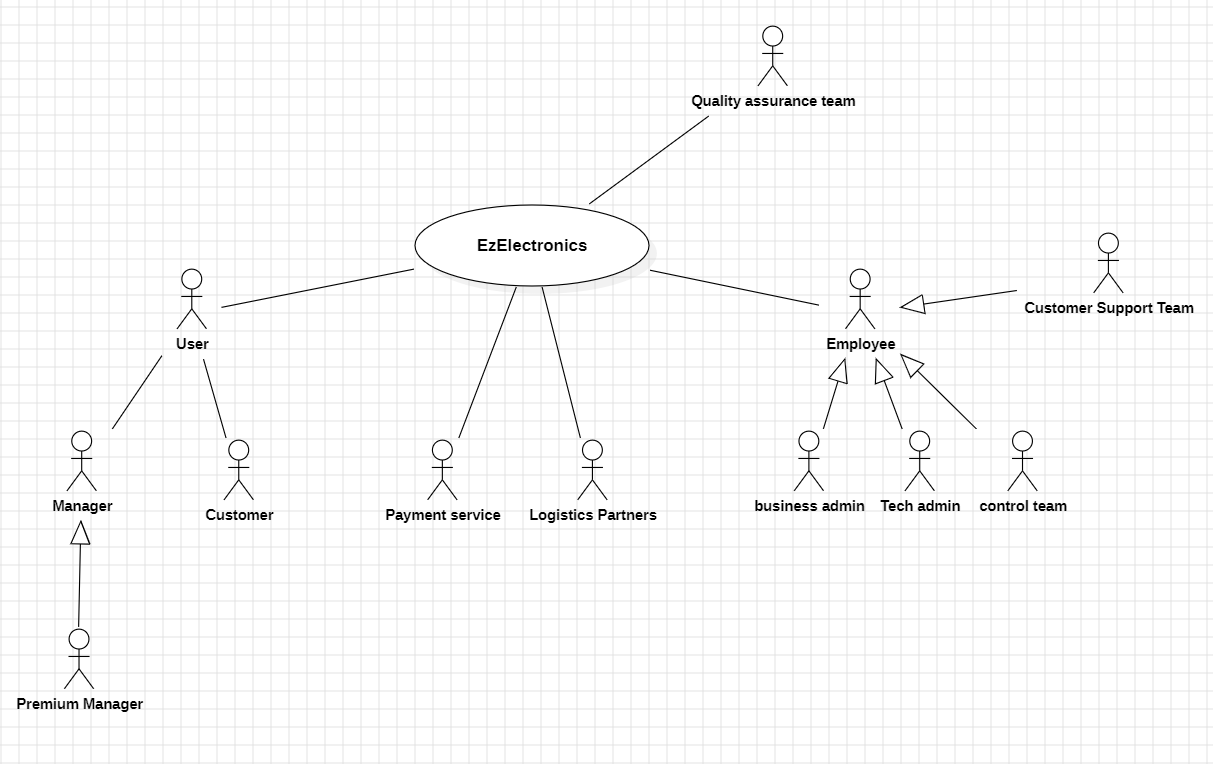
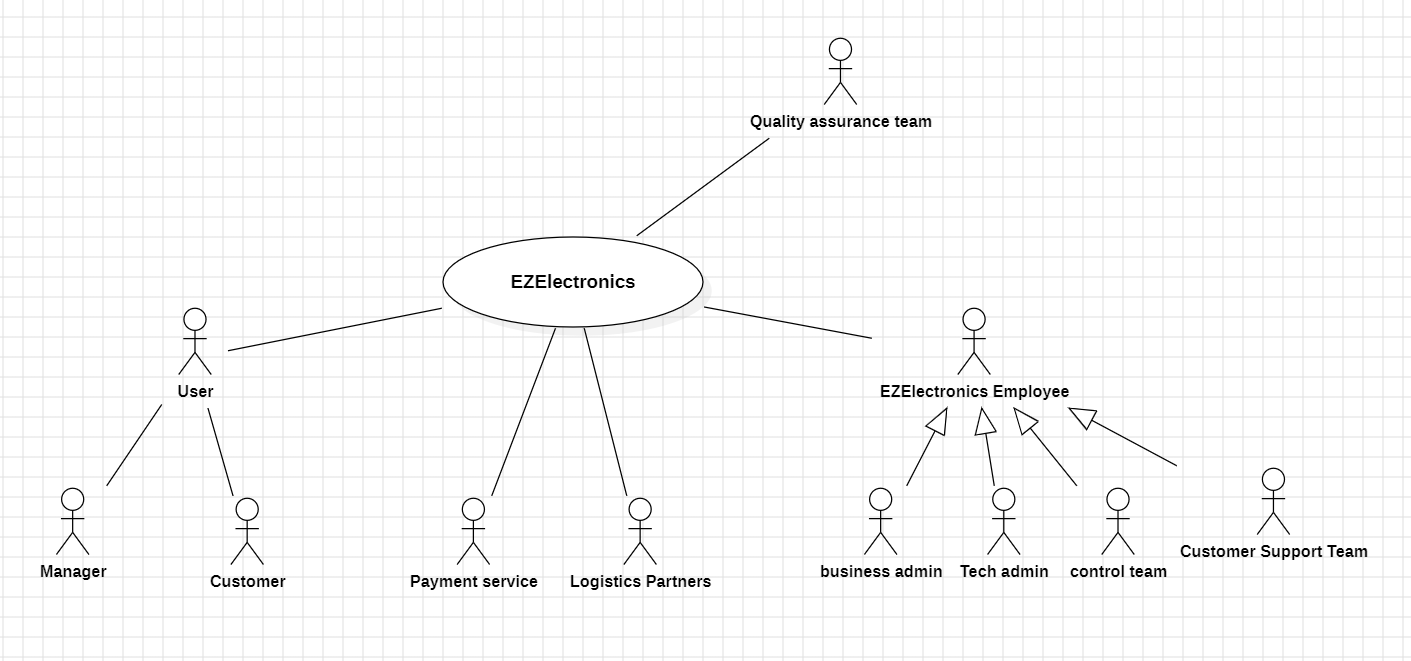
Edited context diagram

diff --git a/RequirementsDocumentV2.md b/RequirementsDocumentV2.md
@@ -83,14 +83,14 @@ EZElectronics (read EaSy Electronics) is a software application designed to help
 
 |          Actor          | Logical Interface | Physical Interface |
 | :---------------------: | :---------------: | :----------------: |
-| Manager-premium manager |        GUI        |         PC         |
+| Manager                 |        GUI        |         PC         |
 |        Customer         |        GUI        |         PC         |
 |          Admin          |        GUI        |         PC         |
 |      Control team       |        GUI        |         PC         |
 |  Customer Support Team  |        GUI        |        PC          |
 |     Payment service     |                   |      Internet      |
 |    Logistics Partners   |                   |      Internet     |
-|Quality assurance team   |         GUI       |       PC           |
+|Quality assurance team   |         GUI - code     |       PC           |
 
 # Stories and personas
 
